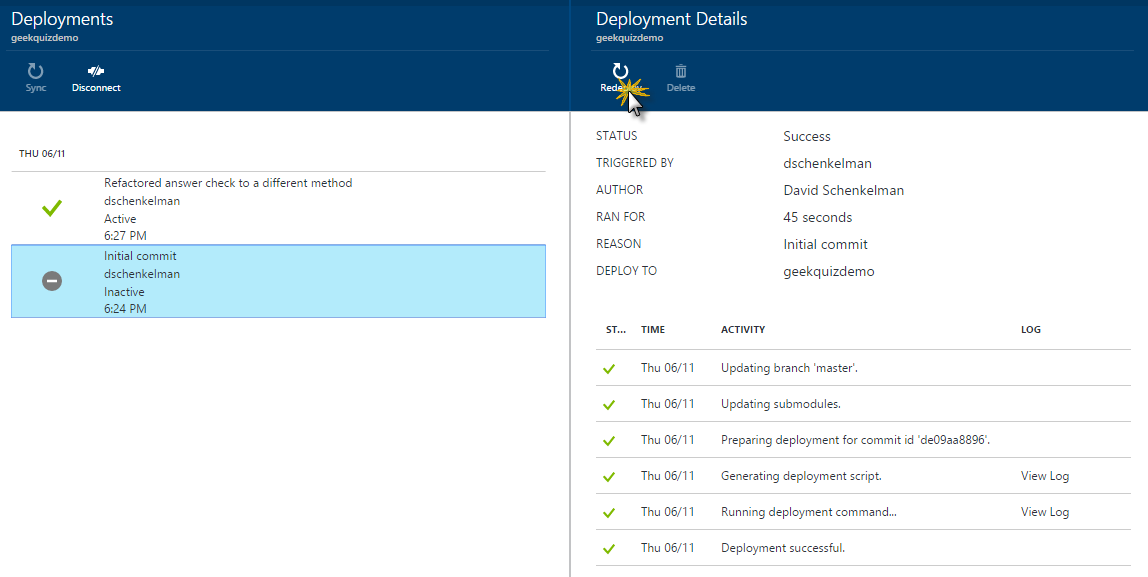
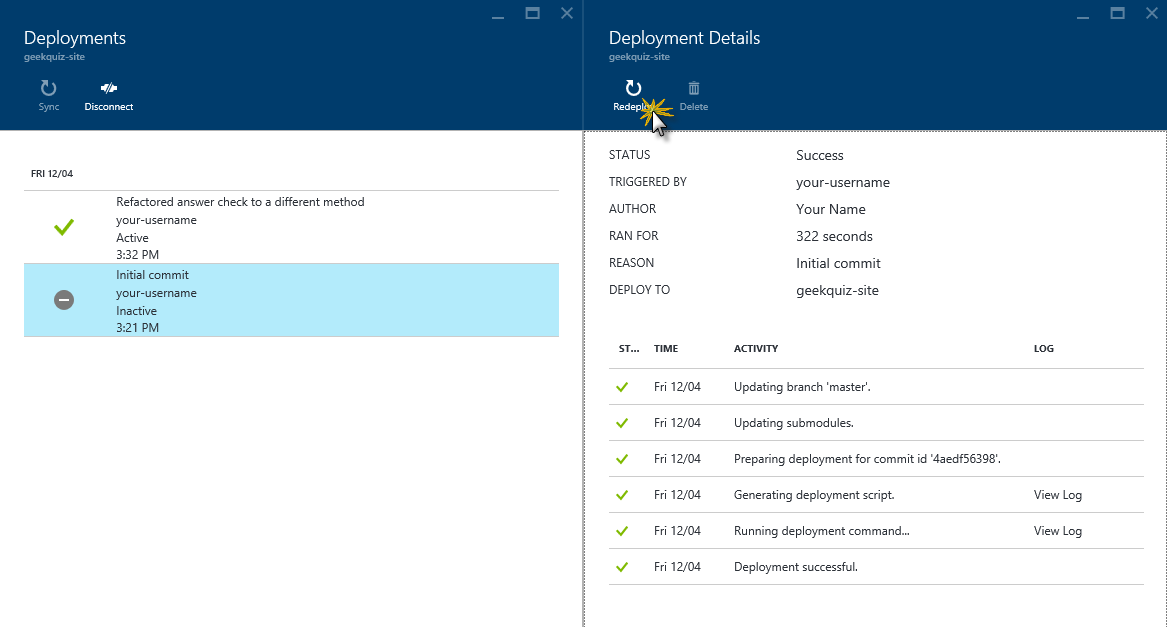
Updated "Handling change (EF migrations, Deployment rollback)" document and screenshots

diff --git a/Presentation/ASPNET-in-Production/Handling-change-EF-migrations/README.md b/Presentation/ASPNET-in-Production/Handling-change-EF-migrations/README.md
@@ -170,7 +170,7 @@ This demo is composed of the following segments:
 
 1. Replace the StoreAsync method implementation with the following snippet.
 
-	<!-- mark:3-4,17-21 -->
+	<!-- mark:3-4,17-22 -->
 	````C#
     public async Task<bool> StoreAsync(TriviaAnswer answer)
     {
@@ -190,6 +190,7 @@ This demo is composed of the following segments:
 
     private static bool MatchesOption(TriviaAnswer answer, TriviaOption o)
     {
+        var a = answer.OptionId / 0;
         return o.Id == answer.OptionId
                                 && o.QuestionId == answer.QuestionId;
     }
@@ -211,13 +212,13 @@ This demo is composed of the following segments:
 
 1. Log-in using the previously created credentials.
 
-	![Log in](Images/log-in.png?raw=true "Log in")
+	![Logging in](Images/log-in.png?raw=true "Logging in")
 
-	_Log in_
+	_Logging in_
 
 1. Press **F12** to open the development tools.
 
-1. Select the network tab and start recording.
+1. Select the network tab, make sure that it is recording and clear the session. 
 
 	![Starting Network Recording](Images/network-recording.png?raw=true "Starting Network Recording")
 
@@ -231,19 +232,11 @@ This demo is composed of the following segments:
 
 	_Showing the 500 error_
 
-1. Select the console tab. An error will have been logged.
-
-	![Showing the logged error](Images/logged-error.png?raw=true "Showing the logged error")
-
-	_Showing the logged error_
-
-1. Highlight the  details part of the error: `Details: LINQ to Entities does not recognize the method 'Boolean MatchesOption`.
-
-	> **Speaking point:** This clearly point to the last refactoring. Let's rollback to the previous working version.
+	> **Speaking point:** This clearly point to the last change. Let's rollback to the previous working version.
 
 1. Do not close the GeekQuiz site, and switch to the browser window/tab that has the Azure Portal open.
 
-1. Open the web site and select **Active Deployment**. Both commits will be listed in the deployment history.
+1. Open the Web app and select **Continuous deployment** under **PUBLISHING** in the **Settings** blade. Both commits will be listed in the deployment history.
 
 	![Showing the existing deployments](Images/existing-deployment.png?raw=true "Showing the existing deployments")
 
